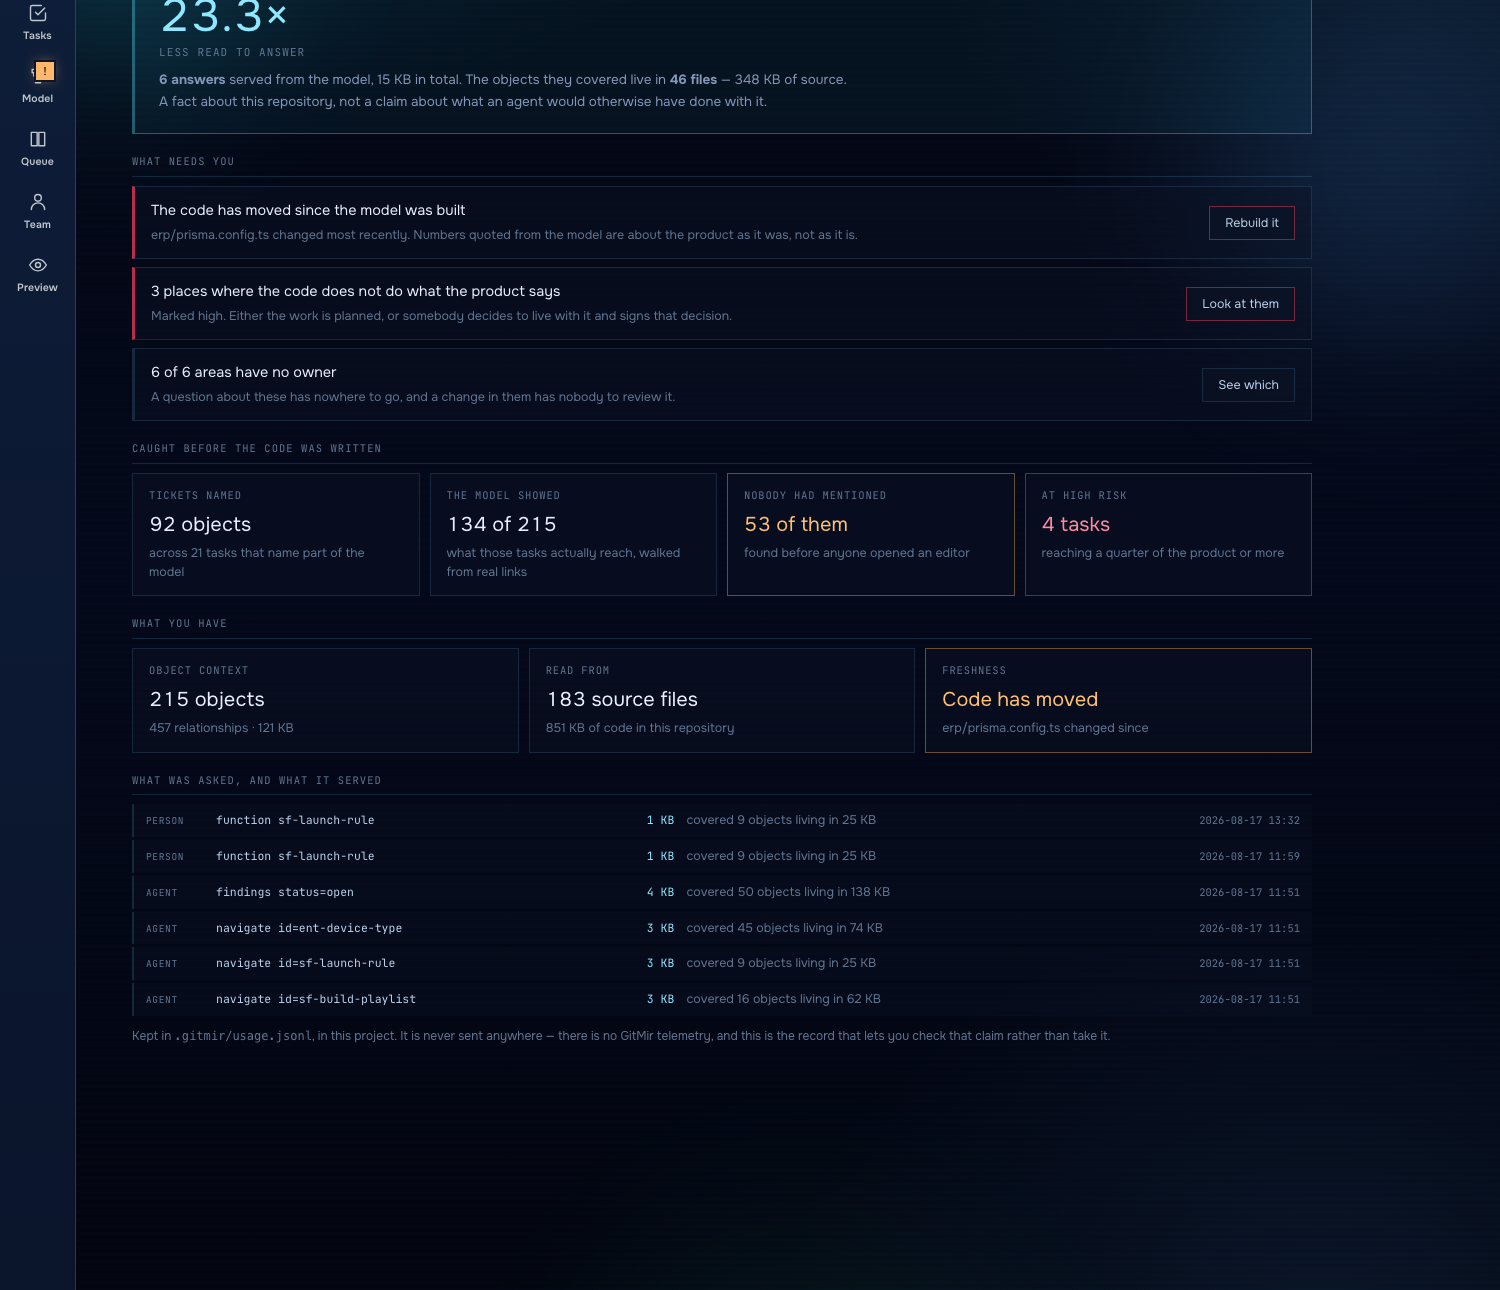
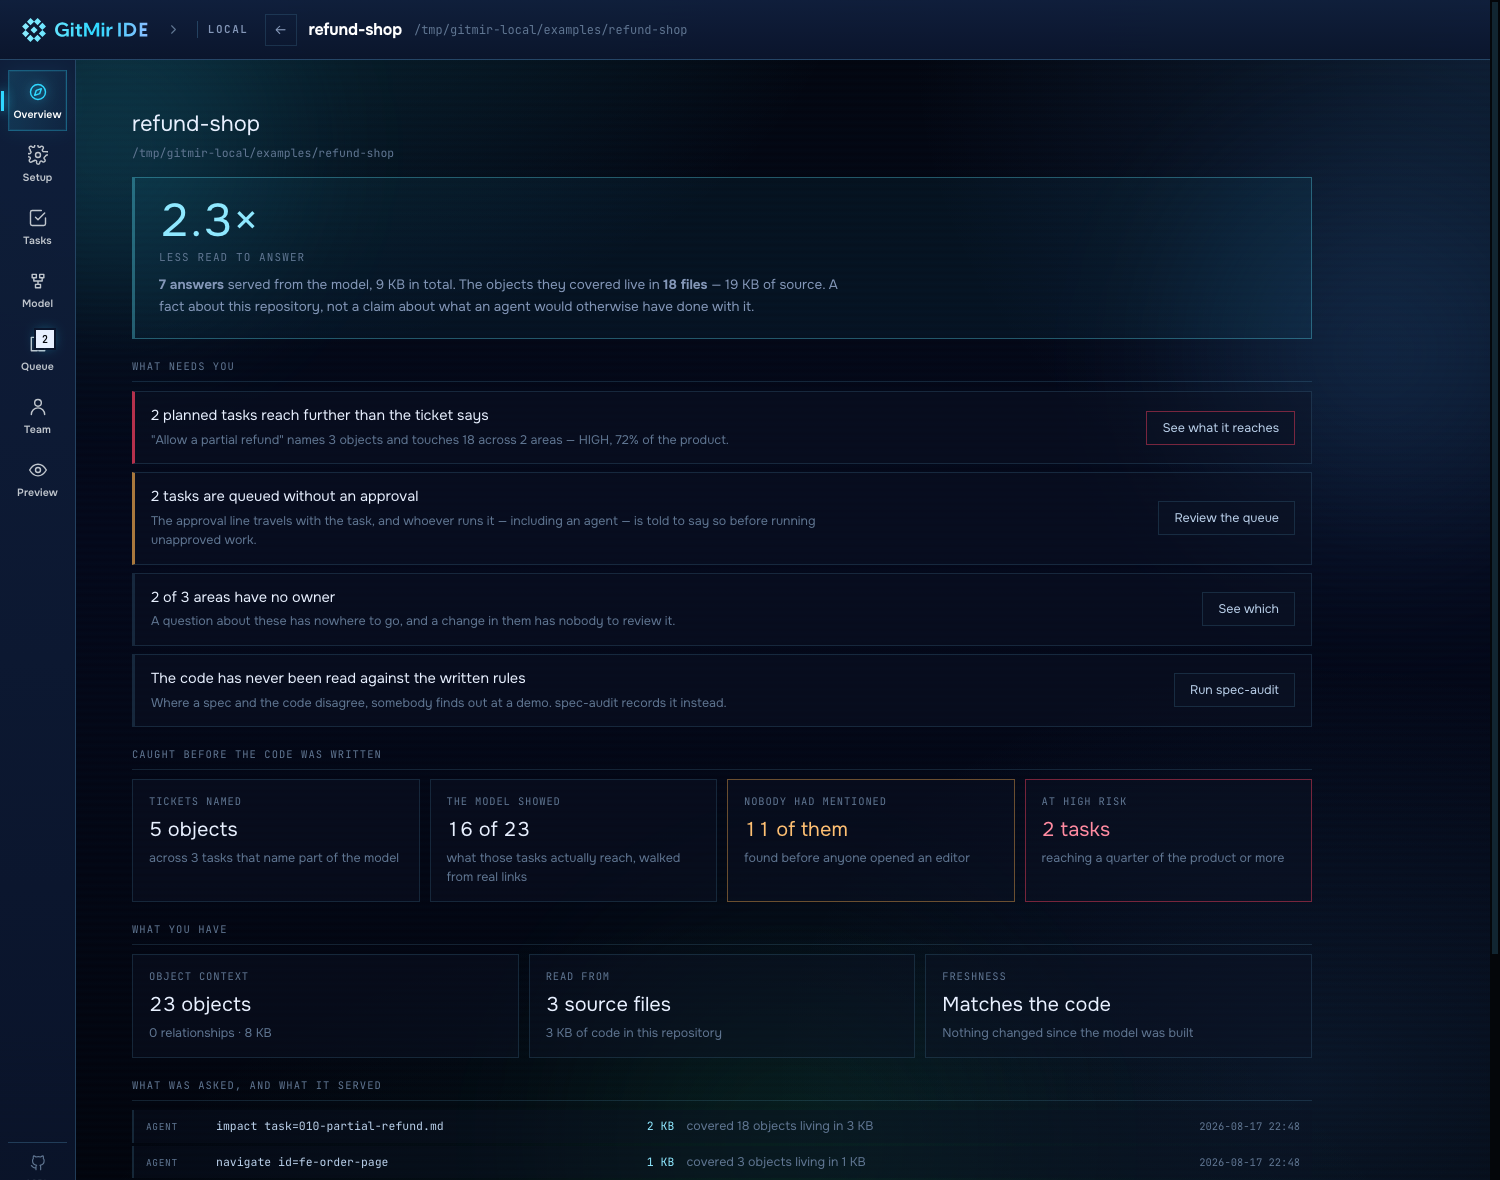
fix(install): the command it installs was not on anyone's PATH
Reported, repeatedly, and right: `gitmir mcp add` does not run. Reproduced from a
clean HOME — the installer linked into ~/.local/bin, which is not on PATH by
default on macOS, and then printed "add this line to your shell profile". So the
very next thing the instructions ask somebody to type is not found. An installer
whose last step is homework is an installer that does not work.

It now writes the PATH line into the right file for the shell in use — .zshrc,
.bash_profile, config.fish, .profile — once, guarded against a repeat run, and
says which file it touched and how to use the command without opening a new
terminal. Verified from a clean HOME: after installing, an interactive shell
resolves `gitmir` and runs it.

Second, from the same session: every failure of `claude mcp add` reported the
same cause — "the claude CLI is not on your PATH" — including the common one
where it is on the PATH and the server is simply already registered. Being told
the wrong reason is worse than being told nothing; it sends somebody to fix
something that is not broken. ENOENT, "already exists" and everything else now
say what actually happened.

`gitmir check` replaces `cd <checkout> && node mcp-check.ts <project> model`,
which is three things to get right in a line copied by somebody already unsure
whether anything works.

The example ships with the three source files its model has always claimed — the
model recorded src/orders/refund.ts and there was no such file, so "Lives in"
[…]

diff --git a/public/app.js b/public/app.js
@@ -811,19 +811,23 @@ function renderMcpBox(){
   const home=window.__GITMIR_HOME__||'/path/to/gitmir-local';
   const proj=selected||'/path/to/your/project';
   const q=s=>'"'+String(s).replace(/"/g,'\\"')+'"';
-  // `claude mcp add` defaults to local scope — the registration lives in the folder
-  // the command was run from. Somebody who runs it once and then opens their editor
-  // in a project finds nothing and concludes it did not work. -s user covers every
-  // project; the server answers about whichever one the editor was opened in.
   // Show the command that exists on THIS machine. `gitmir` arrives with the
   // installer, not with a clone, and printing it to somebody who cloned sends them
   // looking for something that is not there.
   const hasCli = !!window.__GITMIR_CLI__;
+  // `claude mcp add` defaults to local scope — the registration lives in the folder
+  // the command was run from. Somebody who runs it once and then opens their editor
+  // in a project finds nothing and concludes it did not work. -s user covers every
+  // project; the server answers about whichever one the editor was opened in.
+
   const rawAdd='claude mcp add -s user gitmir -- node '+q(home+'/mcp.ts');
   const add = hasCli ? 'gitmir mcp add' : rawAdd;
   const addHere = hasCli ? 'gitmir mcp add-here'
     : 'claude mcp add -s project gitmir -- node '+q(home+'/mcp.ts');
-  const check='cd '+q(home)+' && node mcp-check.ts '+q(proj)+' model';
+  // Same reasoning as the register command: show the short form when the launcher
+  // is on this machine, and the long one when it is not.
+  const check = hasCli ? 'gitmir check '+q(proj)
+    : 'cd '+q(home)+' && node mcp-check.ts '+q(proj)+' model';
 
   // Four steps, each answering the same three questions in the same order: what
   // you do, what it buys, and how you know it worked. The page before this put

diff --git a/examples/refund-shop/src/orders/refund.ts b/examples/refund-shop/src/orders/refund.ts
@@ -1,0 +1,40 @@
+// Refunding a delivered order.
+//
+// The one function the example's tasks are about: `010-partial-refund.md` plans
+// to let it refund part of an order rather than all of it, and the dashboard's
+// change radius is computed from what this touches.
+
+import { isRefundable, type Order } from './order.js';
+
+export interface RefundResult {
+  order: Order;
+  refundedCents: number;
+}
+
+/**
+ * Refund a delivered order in full.
+ *
+ * Whole orders only, for now. Partial refunds are the planned change — and the
+ * point of the example is that the model already knows what allowing them would
+ * reach: the payment, the lifecycle, the event, and the two functions that
+ * handle it downstream.
+ */
+export function refundOrder(order: Order, now = new Date()): RefundResult {
+  if (!isRefundable(order, now)) {
+    throw new Error(`Order ${order.id} is ${order.status} and outside the refund window`);
+  }
+  const refundedCents = order.totalCents;
+  captureRefund(order.id, refundedCents);
+  notifyRefund(order.id);
+  return { order: { ...order, status: 'refunded' }, refundedCents };
+}
+
+/** Hands the amount back through the payment provider. */
+export function captureRefund(orderId: string, amountCents: number): void {
+  void orderId; void amountCents;
+}
+
+/** Tells the customer it happened. Raised as OrderRefunded in the model. */
+export function notifyRefund(orderId: string): void {
+  void orderId;
+}

diff --git a/examples/refund-shop/src/orders/order.ts b/examples/refund-shop/src/orders/order.ts
@@ -1,0 +1,26 @@
+// The order, and the states it is allowed to be in.
+//
+// This shop is invented: it exists so the dashboard, the MCP server and the task
+// queue have something real to answer about before you point them at your own
+// code. The model in .gitmir/model/ was written from these files, and the paths
+// it records lead back here — which is the property worth demonstrating.
+
+export type OrderStatus = 'created' | 'paid' | 'delivered' | 'refunded';
+
+export interface Order {
+  id: string;
+  status: OrderStatus;
+  /** Minor units, so the arithmetic never meets a floating point. */
+  totalCents: number;
+  /** Set when the courier hands it over; the refund window is counted from here. */
+  deliveredAt?: Date;
+}
+
+/** Fourteen days from delivery, as the shop's terms say. */
+export const REFUND_WINDOW_DAYS = 14;
+
+export function isRefundable(order: Order, now = new Date()): boolean {
+  if (order.status !== 'delivered' || !order.deliveredAt) return false;
+  const days = (now.getTime() - order.deliveredAt.getTime()) / 86_400_000;
+  return days <= REFUND_WINDOW_DAYS;
+}

diff --git a/examples/refund-shop/src/pages/Order.tsx b/examples/refund-shop/src/pages/Order.tsx
@@ -1,0 +1,27 @@
+// The screen a customer looks at, and the dialog that starts a refund.
+//
+// The model records that this page calls POST /api/orders/:id/refund, which is
+// how "what breaks if refundOrder changes" reaches a screen a person can see.
+
+import { isRefundable, type Order } from '../orders/order.js';
+
+export function OrderPage({ order }: { order: Order }) {
+  return (
+    <main>
+      <h1>Order {order.id}</h1>
+      <p>Status: {order.status}</p>
+      {isRefundable(order) ? <RefundDialog order={order} /> : null}
+    </main>
+  );
+}
+
+export function RefundDialog({ order }: { order: Order }) {
+  const start = () =>
+    fetch(`/api/orders/${order.id}/refund`, { method: 'POST' });
+  return (
+    <section>
+      <p>Refund this order in full.</p>
+      <button onClick={start}>Refund {(order.totalCents / 100).toFixed(2)}</button>
+    </section>
+  );
+}
